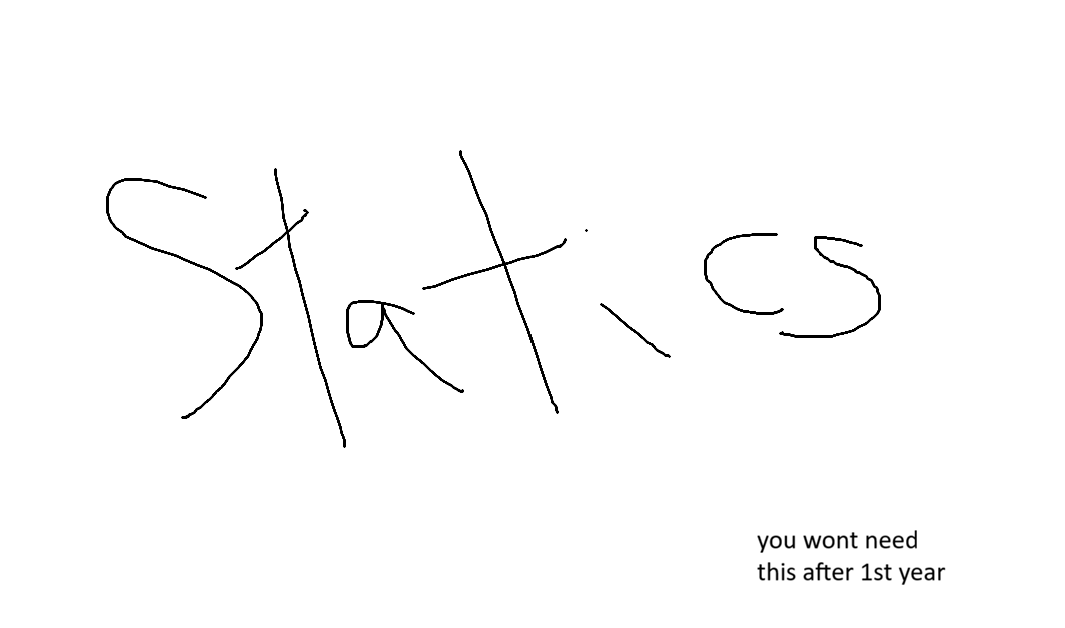
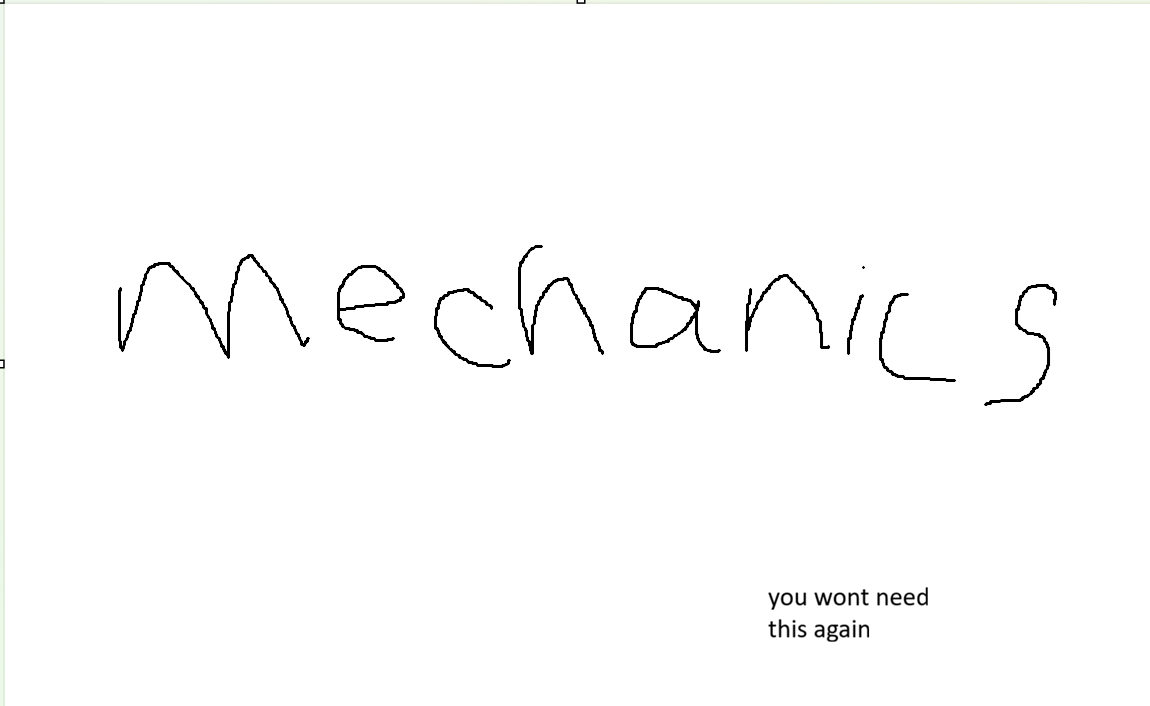
added blog

diff --git a/blogs.html b/blogs.html
@@ -32,7 +32,7 @@
 <body>
     <div class="page">
 
-        <!-- Header (the same on every page) -->
+        <!-- Header -->
         <header class="header">
             <a href="./index.html" class="logo" aria-label="Home">
                 <img src="./assets/images/doodle.png" alt="">
@@ -58,6 +58,15 @@
                 </div>
 
                 <div class="cards" style="margin-top: 24px;">
+                    <a href="#fourier-transforms" class="card" id="fourier-transforms">
+                        <div class="card-head">
+                            <span class="row-title">my take on fourier transforms</span>
+                        </div>
+                        <div class="media">
+                            <img src="./assets/images/f_transform1.png" alt="a function and its fourier transform">
+                        </div>
+                    </a>
+
                     <a href="#fourier-series" class="card" id="fourier-series">
                         <div class="card-head">
                             <span class="row-title">my take on fourier series</span>
@@ -68,7 +77,7 @@
                         </div>
                     </a>
 
-                    <!-- Not a "card": it opens google drive instead of a pop-up -->
+                    <!-- opens google drive instead of a pop-up -->
                     <a href="https://drive.google.com/drive/folders/1gEJOmHDuKLInLcd_7B-vv8Uc4x6BopNV" class="drive-link" target="_blank" rel="noopener">
                         <div class="card-head">
                             <span class="row-title">civ100 notes</span>
@@ -231,9 +240,110 @@
                     </div>
                 </section>
             </template>
+
+            <!-- my take on fourier transforms -->
+            <template id="details-fourier-transforms">
+                <h2 class="panel-title">my take on fourier transforms</h2>
+                <div class="media">
+                    <img src="./assets/images/f_transforms1.png" alt="a function and its fourier transform">
+                </div>
+
+                <section class="section">
+                    <div class="prose">
+                        <p>fourier series is for functions that keep coming back every \(2\pi\). the fourier transform is for the ones that show up once and never repeat. aw man. </p>
+                        <p>be optimistic now, pretend she does repeat, just with a period so long it's basically forever. as the period goes to infinity, the separate frequencies \(n = 1, 2, 3, \ldots\) squish together into every frequency \(\omega\), and the sum turns into an integral. the formula:</p>
+                        <p>\[ F(\omega) = \int_{-\infty}^{\infty} f(t)\, e^{-i\omega t}\, dt \]</p>
+                        <p>and to go back:</p>
+                        <p>\[ f(t) = \frac{1}{2\pi} \int_{-\infty}^{\infty} F(\omega)\, e^{i\omega t}\, d\omega \]</p>
+                        <p>\(F(\omega)\) tells you how much of frequency \(\omega\) is in the mix. same job as \(a_n\) and \(b_n\), just for every frequency at once.</p>
+                    </div>
+                </section>
+
+                <section class="section">
+                    <h3 class="section-title">where did the sines and cosines go?</h3>
+                    <div class="prose">
+                        <p>they're hiding inside \(e^{i\omega t}\). how lovely. euler's formula:</p>
+                        <p>\[ e^{i\omega t} = \cos(\omega t) + i\sin(\omega t) \]</p>
+                        <p>so \(e^{i\omega t}\) is just a cosine and a sine taped together. it's a point spinning in a circle, \(\omega\) times faster or slower.</p>
+                    </div>
+                </section>
+
+                <section class="section">
+                    <h3 class="section-title">why does this work?</h3>
+                    <div class="prose">
+                        <p>same filter as before. multiply \(f(t)\) by \(e^{-i\omega t}\), which spins backwards at speed \(\omega\). the part of \(f\) at exactly that frequency stops spinning and adds up. everything else keeps spinning, and spinning things average out to zero.</p>
+                        <p>orthogonality again. everyone in the room still ignores you except the one person exactly like you. the room is just infinitely big now.</p>
+                    </div>
+                </section>
+
+                <section class="section">
+                    <h3 class="section-title">ur mom wants steps</h3>
+                    <div class="prose">
+                        <p>1. write \(f(t)\) out and find where it's not zero. those are your limits. most of the time it's not \(-\infty\) to \(\infty\) at all.</p>
+                        <p>2. check symmetry.<br>
+                        \(f\) is even: \(F(\omega)\) is real. only the cosine part survives.<br>
+                        \(f\) is odd: \(F(\omega)\) is purely imaginary. only the sine part survives.</p>
+                        <p>3. plug in and combine the exponents into one \(e^{(\text{something})t}\).</p>
+                        <p>4. integrate. exponentials are easy:</p>
+                        <p>\[ \int e^{kt}\, dt = \frac{e^{kt}}{k} \]</p>
+                        <p>5. clean up with euler. these two show up every single time:</p>
+                        <p>\[ \frac{e^{i\theta} - e^{-i\theta}}{2i} = \sin\theta \qquad \frac{e^{i\theta} + e^{-i\theta}}{2} = \cos\theta \]</p>
+                        <p>6. check it. \(F(0)\) has to equal the area under \(f\), because \(e^{0} = 1\):</p>
+                        <p>\[ F(0) = \int_{-\infty}^{\infty} f(t)\, dt \]</p>
+                    </div>
+                </section>
+
+                <section class="section">
+                    <h3 class="section-title">example</h3>
+                    <div class="prose">
+                        <p>you meet a rectangular pulse. she's 1 for a little while and 0 the rest of her life:</p>
+                        <p>\[ f(t) = \begin{cases} 1 & |t| &lt; a \\ 0 & \text{otherwise} \end{cases} \]</p>
+
+                        <p><strong>1. limits.</strong> she's only nonzero from \(-a\) to \(a\), so that's all we integrate.</p>
+
+                        <p><strong>2. symmetry.</strong> \(f(-t) = f(t)\). she's even, so the answer should come out real.</p>
+
+                        <p><strong>3. plug in.</strong></p>
+                        <p>\[ F(\omega) = \int_{-a}^{a} e^{-i\omega t}\, dt \]</p>
+
+                        <p><strong>4. integrate.</strong> here \(k = -i\omega\):</p>
+                        <p>\[ F(\omega) = \left[ \frac{e^{-i\omega t}}{-i\omega} \right]_{-a}^{a} = \frac{e^{-i\omega a} - e^{i\omega a}}{-i\omega} = \frac{e^{i\omega a} - e^{-i\omega a}}{i\omega} \]</p>
+
+                        <p><strong>5. clean up.</strong> multiply top and bottom by 2 so the euler identity shows up:</p>
+                        <p>\[ F(\omega) = \frac{2}{\omega} \cdot \frac{e^{i\omega a} - e^{-i\omega a}}{2i} = \frac{2\sin(\omega a)}{\omega} \]</p>
+                        <p>it's real, like step 2 said. the box turned into a wave that wiggles and shrinks. this shape is called a sinc.</p>
+
+                        <p><strong>6. check it.</strong> never skip the check. as \(\omega \to 0\), \(\sin(\omega a) \approx \omega a\), so:</p>
+                        <p>\[ F(0) = \lim_{\omega \to 0} \frac{2\sin(\omega a)}{\omega} = \lim_{\omega \to 0} \frac{2\,\omega a}{\omega} = 2a \]</p>
+                        <p>the box is \(2a\) wide and 1 tall, so its area is \(2a\). it checks out.</p>
+
+                        <p><strong>the plot twist.</strong> the first zero of \(F\) is at \(\omega = \pi / a\). make the pulse narrower (smaller \(a\)) and the transform gets wider. squeeze one side and the other spreads out. this is the uncertainty principle.</p>
+                    </div>
+                </section>
+
+                <section class="section">
+                    <h3 class="section-title">one more so you believe me</h3>
+                    <div class="prose">
+                        <p>\(f(t) = e^{-a|t|}\), a spike that fades out both ways (\(a &gt; 0\)). split it at 0:</p>
+                        <p>\[ F(\omega) = \int_{-\infty}^{0} e^{(a - i\omega)t}\, dt + \int_{0}^{\infty} e^{-(a + i\omega)t}\, dt = \frac{1}{a - i\omega} + \frac{1}{a + i\omega} = \frac{2a}{a^2 + \omega^2} \]</p>
+                        <p>the \(e^{-\infty}\) ends go to 0, which is why \(f\) has to fade out. even, so real. check: \(F(0) = \frac{2}{a}\), and the area under \(e^{-a|t|}\) is \(\frac{2}{a}\). checks out.</p>
+                    </div>
+                </section>
+
+                <section class="section">
+                    <h3 class="section-title">rules that save you from integrating</h3>
+                    <div class="prose">
+                        <p>once you know a few transforms, you can get new ones without doing any integrals:</p>
+                        <p>shift it: \(f(t - t_0) \;\to\; e^{-i\omega t_0} F(\omega)\). moving her in time only adds a spin.</p>
+                        <p>squeeze it: \(f(ct) \;\to\; \frac{1}{|c|} F\!\left(\frac{\omega}{c}\right)\). the plot twist from the example, as a formula.</p>
+                        <p>take a derivative: \(f'(t) \;\to\; i\omega F(\omega)\). derivatives turn into multiplication, so differential equations turn into algebra. yeah that's pretty much it.</p>
+                        <p>hint: it's okay to fail this course</p>
+                    </div>
+                </section>
+            </template>
         </main>
 
-        <!-- Footer (the same on every page) -->
+        <!-- Footer ( ) -->
         <footer class="footer">© 2026 Amanda Xuan</footer>
 
     </div>

diff --git a/projects.html b/projects.html
@@ -10,7 +10,7 @@
 <body>
     <div class="page">
 
-        <!-- Header (the same on every page) -->
+        <!-- Header ( ) -->
         <header class="header">
             <a href="./index.html" class="logo" aria-label="Home">
                 <img src="./assets/images/doodle.png" alt="">
@@ -152,7 +152,7 @@
             </template>
         </main>
 
-        <!-- Footer (the same on every page) -->
+        <!-- Footer ( ) -->
         <footer class="footer">© 2026 Amanda Xuan</footer>
 
     </div>

diff --git a/index.html b/index.html
@@ -10,7 +10,7 @@
 <body>
     <div class="page">
 
-        <!-- Header (the same on every page) -->
+        <!-- Header ( ) -->
         <header class="header">
             <a href="./index.html" class="logo" aria-label="Home">
                 <img src="./assets/images/doodle.png" alt="">
@@ -76,7 +76,7 @@
             </section>
         </main>
 
-        <!-- Footer (the same on every page) -->
+        <!-- Footer ( ) -->
         <footer class="footer">© 2026 Amanda Xuan</footer>
 
     </div>
